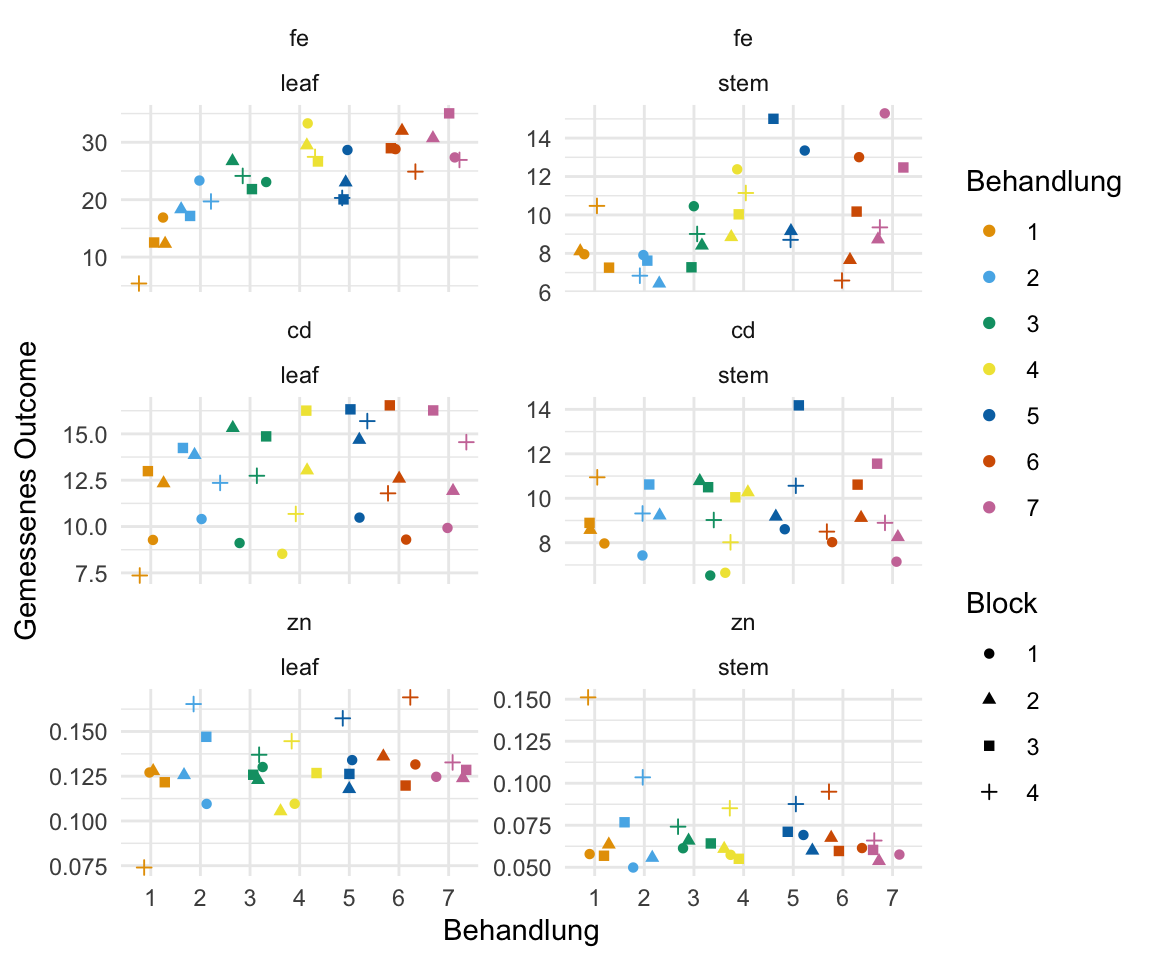
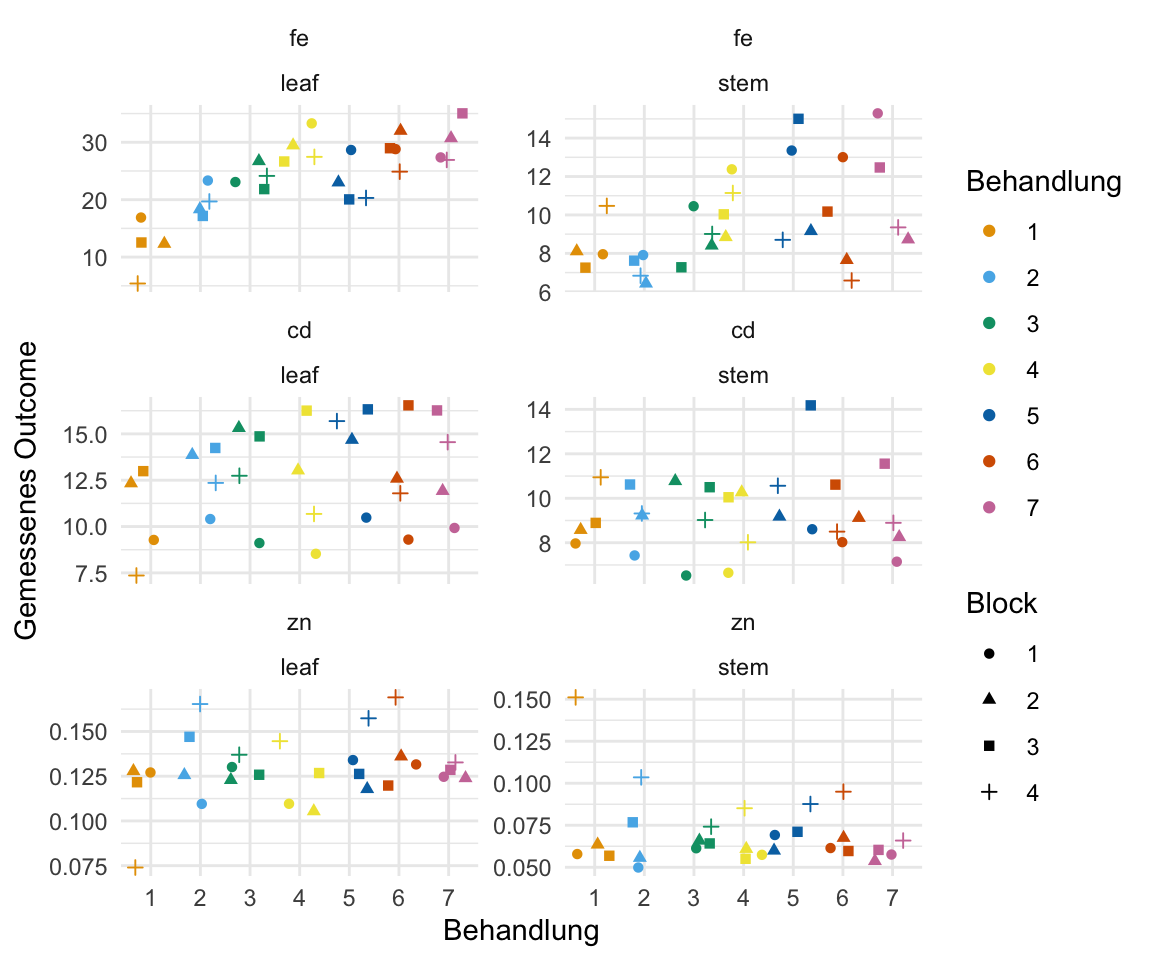
added text

diff --git a/docs/app-example-analysis.html b/docs/app-example-analysis.html
@@ -586,7 +586,7 @@ code span.wa { color: #60a0b0; font-weight: bold; font-style: italic; } /* Warni
 </header><div class="cell">
 
 </div>
-<p><em>Version vom January 02, 2023 um 09:53:51</em></p>
+<p><em>Version vom January 02, 2023 um 09:58:07</em></p>
 <div class="callout-tip callout callout-style-default callout-captioned">
 <div class="callout-header d-flex align-content-center">
 <div class="callout-icon-container">
@@ -2373,7 +2373,7 @@ NOTE: If two or more means share the same grouping symbol,
       But we also did not show them to be the same. </code></pre>
 </div>
 </div>
-<p>Auch hier schauen wir uns einmal die Korrelation zwischen den Outcomes in der <a href="#fig-app-exp-spinach-02">Abbildung&nbsp;<span>A.17</span></a> an.</p>
+<p>Auch hier schauen wir uns einmal die Korrelation zwischen den Outcomes in der <a href="#fig-app-exp-spinach-02">Abbildung&nbsp;<span>A.17</span></a> an. Wir sehen in der <a href="#fig-app-exp-spinach-02-1">Abbildung&nbsp;<span>A.17 (a)</span></a> die Korrelation zwischen den beiden Outcomes Fe und Zn zusammen in den Blättern und den Stielen. Wir würden meinen, dass wir eine positive Korrelation vorliegen haben. Wir sehen, dass mit mehr Zn auch mehr Fe auftritt. Was uns aber etwas stutzig werden lässt, sind die beiden Punktewolken in der linken unteren Abbildung. Daher einmal schnell aufgetrennt für die Blätter in <a href="#fig-app-exp-spinach-02-2">Abbildung&nbsp;<span>A.17 (b)</span></a> und für die Stiele in <a href="#fig-app-exp-spinach-02-3">Abbildung&nbsp;<span>A.17 (c)</span></a>. Wir sehen, dass wir nichts sehen. Denn getrennt für die Blätter und Stiele haben wir dann keine Korrelation mehr für die beiden Outcomes vorliegen.</p>
 <div class="page-columns page-full">
 <div class="sourceCode" id="cb129"><pre class="downlit sourceCode r code-with-copy"><code class="sourceCode R"><span><span class="va">spinach_tbl</span> <span class="op">%&gt;%</span> </span>
 <span>  <span class="fu">select</span><span class="op">(</span><span class="va">fe</span>, <span class="va">zn</span><span class="op">)</span> <span class="op">%&gt;%</span> </span>
